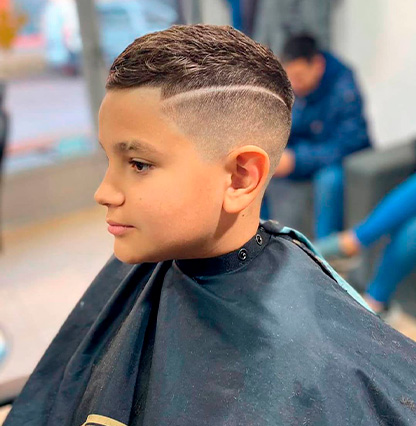
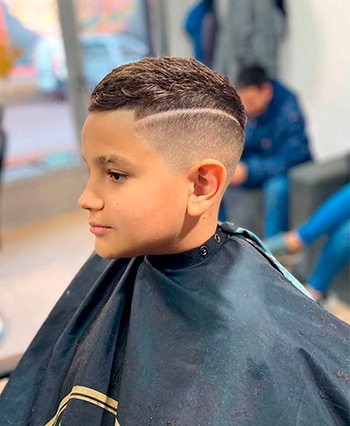
modificaciones
cambio de imagenes y adaptacion de la galeria para PC

diff --git a/css/style.css b/css/style.css
@@ -949,10 +949,13 @@ footer p span{
     /*///////////////GALERIA//////////////*/
     /**ESTILO DE LAS IMG MINIATURA**/
     body section:nth-of-type(3) > div:nth-of-type(1){
-        grid-template-columns: 416px repeat(2, 208px);
+        max-width: 832px;
+        margin: auto;
+        grid-template-columns: 350px 274px 208px;
         grid-template-rows: repeat(2, 208px);
         justify-content: center;
         grid-gap: 10px;
+        position: relative;
     }
     
 
@@ -960,6 +963,17 @@ footer p span{
     body section:nth-of-type(3) > div:nth-of-type(1) figure:nth-of-type(4){
         grid-column-start: 2;
         grid-column-end: 3;
+        max-width: 208px;
+    }
+
+     /*///////////////GALERIA//////////////*/
+    /**ESTILO DE LA ULTIMA IMG CENTRADA AL MEDIO**/
+    body section:nth-of-type(3) > div:nth-of-type(1) figure:nth-of-type(5){
+        max-width: 274px;
+        width: 274px;
+        position: absolute;
+        bottom: 0;
+        right: -11px;
     }
 
     /*///////////////CONTACTO//////////////*/

diff --git a/index.html b/index.html
@@ -94,7 +94,8 @@
             <figure>
                 <picture>
                     <source media="(max-width: 499px)" srcset="img/galeria/imgCel_Tab/imgCel_2.jpg">
-                    <img src="img/galeria/imgTab/imgTab_2.jpg" alt="a">
+                    <source media="(max-width: 979px)" srcset="img/galeria/imgTab/imgTab_2.jpg">
+                    <img src="img/galeria/imgPc/imgPc_2.jpg" alt="a">
                 </picture>
             </figure>
             <figure>
@@ -112,7 +113,8 @@
             <figure>
                 <picture>
                     <source media="(max-width: 499px)" srcset="img/galeria/imgCel_Tab/imgCel_5.jpg">
-                    <img src="img/galeria/imgTab/imgTab_5.jpg" alt="a">
+                    <source media="(max-width: 979px)" srcset="img/galeria/imgTab/imgTab_5.jpg">
+                    <img src="img/galeria/imgPc/imgPc_5.jpg" alt="a">
                 </picture>
             </figure>
         </div>
